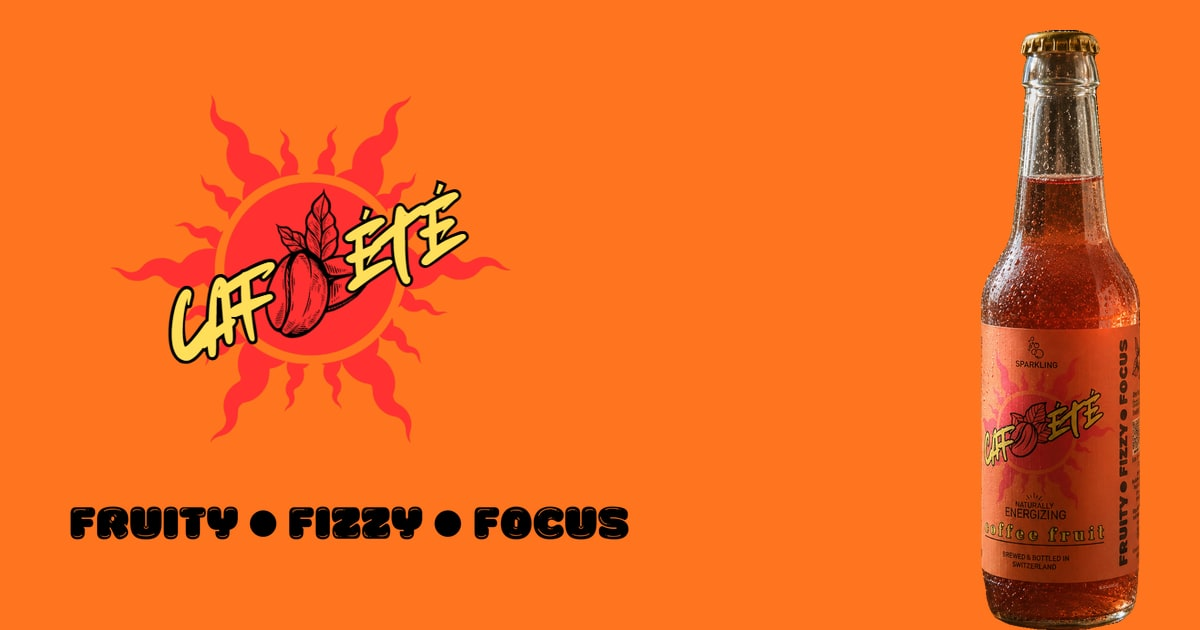
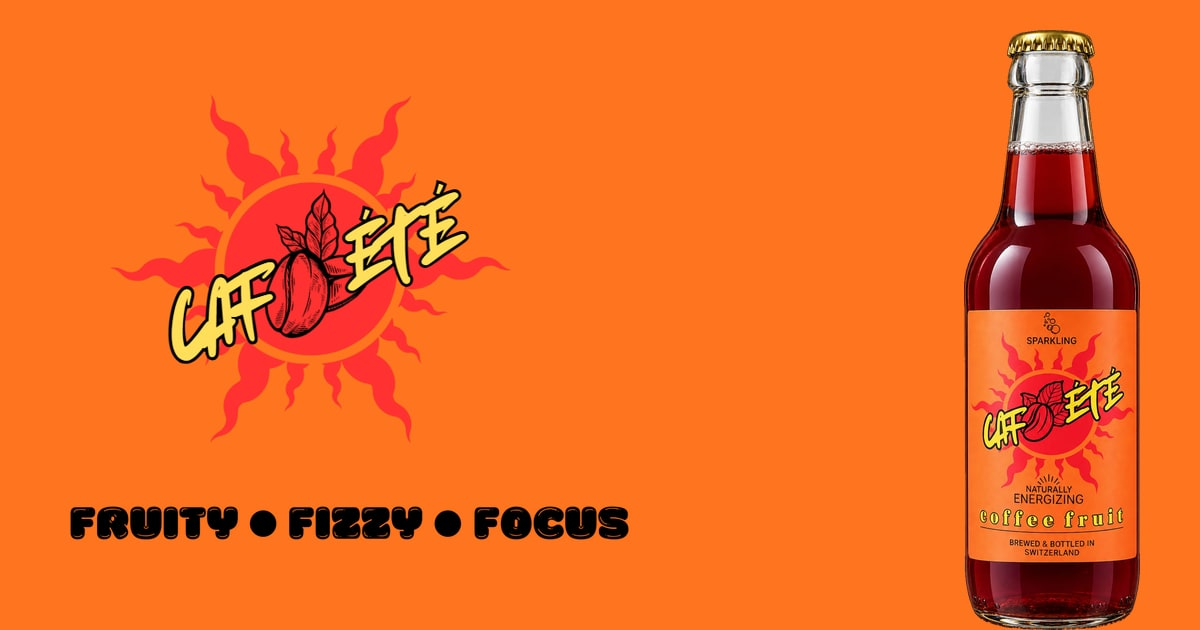
QR lander: owner's round — no launch, new headline, 6-pack, real bottle
Owner feedback, 11 Sept. The page is used independently of the launch, and the
stickers only arrive the week after it, so a launch date here would already be
in the past by the time anyone scans one.

- Every launch reference gone: the event link under the hero CTA and the
  "Bestellbar ab dem 19. September 2026" caption. Where a pack cannot be bought
  yet the caption is now the generic `common.comingSoon`, which clears itself
  when the coming_soon metadata comes off the Stripe Prices — nothing left here
  to go stale.
- Headline is "Die andere Hälfte des Kaffees." / "The other half of coffee.",
  matching `coffeeFruit.title`, which already carries that line in both locales.
- The 6-pack replaces the logo above the headline. Someone who has just scanned
  a sticker should see the product, and the header above is already carrying
  the mark.
- The single bottle is the real studio shot from the same session as the pack
  shots, black keyed out with the same numbers. It replaces a mockup render that
  was covered in condensation and cropped tight enough to clip the cap and the
  base. Same output filename, so the shop card fallback and the OG image — which
  composites it — both pick it up; the OG image no longer shows a clipped bottle.

The CTA moved above the fact stickers. Measured in a 390px iframe (Chrome on
macOS clamps a window to 480, so a narrow screenshot is a crop of a 480 layout):
the stickers stack into three rows at that width, and with them above the button
[…]

Changed region(s): [[0.8017, 0.0302, 0.9558, 1.0]]

diff --git a/src/app/[locale]/entdecken/page.tsx b/src/app/[locale]/entdecken/page.tsx
@@ -7,7 +7,6 @@ import { ctaClass } from "@/components/brand/cta-button";
 import { SloganMarquee } from "@/components/brand/marquee";
 import { Sticker } from "@/components/brand/sticker";
 import { SunburstRays, WarmGlow } from "@/components/brand/sunburst";
-import { LogoSticker } from "@/components/brand/wordmark";
 import { Section } from "@/components/layout/section";
 import { Link } from "@/i18n/navigation";
 import {
@@ -20,6 +19,7 @@ import { getPackPrices, lowestPriceFrom } from "@/lib/pricing";
 
 import bottlePhoto from "../../../../public/bottle-photo.jpg";
 import bottle from "../../../../public/bottle-transparent.png";
+import pack6 from "../../../../public/pack-6.png";
 
 export const generateStaticParams = generateLocaleParams;
 
@@ -55,11 +55,18 @@ export const revalidate = 3600;
  * order, with the first call to action above the fold on a phone. Everything
  * deeper (ingredients, the founders, the story) is a link away rather than on
  * the page.
+ *
+ * Deliberately says nothing about the launch event. The owner's call on 11 Sept:
+ * the page outlives the launch, and the stickers themselves only arrive the week
+ * after it — so a launch date printed here would already be in the past by the
+ * time anyone scans one.
  */
 export default async function DiscoverPage({ params }: LocaleParams) {
   const locale = await resolvePageLocale(params);
   const t = await getTranslations({ locale, namespace: "qr" });
   const tBadges = await getTranslations({ locale, namespace: "badges" });
+  const tCommon = await getTranslations({ locale, namespace: "common" });
+  const tPacks = await getTranslations({ locale, namespace: "packs" });
 
   const price = lowestPriceFrom(await getPackPrices(), locale);
 
@@ -86,13 +93,19 @@ export default async function DiscoverPage({ params }: LocaleParams) {
         <SunburstRays className="-top-28" size="w-[38rem]" opacity="opacity-20" />
         <WarmGlow className="top-[-7rem] left-[52%] size-[26rem] max-w-[80vw]" />
 
-        <div className="relative mx-auto max-w-3xl px-4 pt-9 pb-14 text-center sm:px-6 sm:pt-14 sm:pb-20">
+        <div className="relative mx-auto max-w-3xl px-4 pt-7 pb-14 text-center sm:px-6 sm:pt-14 sm:pb-20">
           <p className="label-caps text-gold">{t("label")}</p>
 
-          <LogoSticker
+          {/* The 6-pack rather than the logo, as the owner asked: someone who has
+              just scanned a sticker should see the product, and the site header
+              directly above is already carrying the mark. */}
+          <Image
+            src={pack6}
+            alt={tPacks("imageAlt", { pack: tPacks("six") })}
             priority
-            sizes="(max-width: 640px) 45vw, 12rem"
-            className="mt-5 w-[9rem] sm:w-[11rem]"
+            sizes="(max-width: 640px) 75vw, 20rem"
+            placeholder="blur"
+            className="mx-auto mt-4 h-auto w-[14rem] drop-shadow-[0_16px_32px_rgba(0,0,0,0.55)] sm:w-[18rem]"
           />
 
           {/* The page's H1. Short enough to stay one or two lines on a phone,
@@ -104,6 +117,31 @@ export default async function DiscoverPage({ params }: LocaleParams) {
           <p className="text-cream/85 mx-auto mt-5 max-w-xl text-lg leading-relaxed text-balance">
             {t("lead")}
           </p>
+
+          {/*
+            * The button comes before the stickers, which is also how the homepage
+            * hero is ordered. It matters more here: at 390 px the three stickers
+            * stack into three rows, and with them above the button the button's
+            * bottom edge landed exactly on the 844 px fold — which on a real phone,
+            * once the address bar takes its ~90 px, is below it. Measured in a
+            * 390 px iframe, since Chrome on macOS clamps a window to 480.
+            *
+            * The CTA label is nowrap, so horizontal padding is reduced on the
+            * narrowest phones to keep "Zum Shop — ab CHF 24.50" inside the pill.
+            */}
+          <div className="mt-7">
+            <Link
+              href="/shop"
+              className={ctaClass({
+                variant: "gold",
+                size: "lg",
+                className: "w-full px-6 sm:w-auto sm:px-8",
+              })}
+            >
+              {price ? t("ctaShopWithPrice", { price: price.formatted }) : t("ctaShop")}
+              <ArrowRight className="size-5" aria-hidden />
+            </Link>
+          </div>
 
           <ul className="mt-7 flex flex-wrap justify-center gap-2.5">
             <li>
@@ -122,33 +160,6 @@ export default async function DiscoverPage({ params }: LocaleParams) {
               </Sticker>
             </li>
           </ul>
-
-          {/* The CTA label is nowrap, so the horizontal padding is reduced on the
-              narrowest phones to keep "Zum Shop — ab CHF 24.50" inside the pill. */}
-          <div className="mt-8">
-            <Link
-              href="/shop"
-              className={ctaClass({
-                variant: "gold",
-                size: "lg",
-                className: "w-full px-6 sm:w-auto sm:px-8",
-              })}
-            >
-              {price ? t("ctaShopWithPrice", { price: price.formatted }) : t("ctaShop")}
-              <ArrowRight className="size-5" aria-hidden />
-            </Link>
-          </div>
-
-          {/* A text link, not a second pill: the event line is too long to fit a
-              nowrap button on a phone, and it is genuinely the lesser action. */}
-          <p className="mt-5">
-            <Link
-              href="/event"
-              className="text-gold hover:text-gold-soft font-semibold underline decoration-2 underline-offset-4"
-            >
-              {t("ctaEvent")}
-            </Link>
-          </p>
         </div>
       </section>
 
@@ -197,10 +208,15 @@ export default async function DiscoverPage({ params }: LocaleParams) {
                   {t("fromPrice", { price: price.formatted })}
                 </span>
               ) : null}
-              {/* Shown whenever nothing is buyable yet — including when no price
-                  is available at all, where the date is the only honest answer. */}
+              {/*
+                * Shown whenever nothing is buyable yet, so the page never quotes
+                * a price for something you cannot order. Generic on purpose
+                * rather than naming a date: it clears itself the moment the
+                * `coming_soon` metadata comes off the Stripe Prices, with no
+                * edit here and nothing left to go stale.
+                */}
               {!price || price.comingSoon ? (
-                <span className="text-cream/60 text-sm">{t("launchNote")}</span>
+                <span className="text-cream/60 text-sm">{tCommon("comingSoon")}</span>
               ) : null}
             </p>
 

diff --git a/README.md b/README.md
@@ -101,6 +101,11 @@ what each one is and two non-obvious constraints: the **logo keeps its orange
 background** (the orange is structural), and the **slogan banner is black ink on
 transparent** so it needs a light or orange surface behind it.
 
+A missing source file is now a warning, not an error: the owner sends assets a few
+at a time and tidies them off the desktop afterwards, so on any given day some are
+absent, and one gone file must not stop the rest of `public/` being regenerated.
+Every skip is listed at the end of the run, so a mistyped filename still shows up.
+
 ## i18n
 
 - Copy lives only in `messages/de.json` and `messages/en.json`.
@@ -336,6 +341,12 @@ Four decisions behind that, so they are not undone by accident:
   homepage's pitch rewritten shorter, and two pages competing for the same query
   only splits their ranking. It is deliberately *not* disallowed in `robots.txt` —
   a crawler has to be able to fetch it to see the `noindex` at all.
+- **It says nothing about the launch event, and should not.** The owner's call on
+  11 Sept: the page is used independently of the launch, and the stickers only
+  arrive the week *after* it — so a launch date printed here would already be in
+  the past by the time anyone scans one. Where a pack cannot be bought yet the
+  page shows the generic `common.comingSoon` rather than a date, which clears
+  itself when the `coming_soon` metadata comes off the Stripe Prices.
 
 The page itself (`src/app/[locale]/entdecken/page.tsx`) assumes about ten seconds
 of attention: hook, three facts, shop. The first call to action is above the fold
